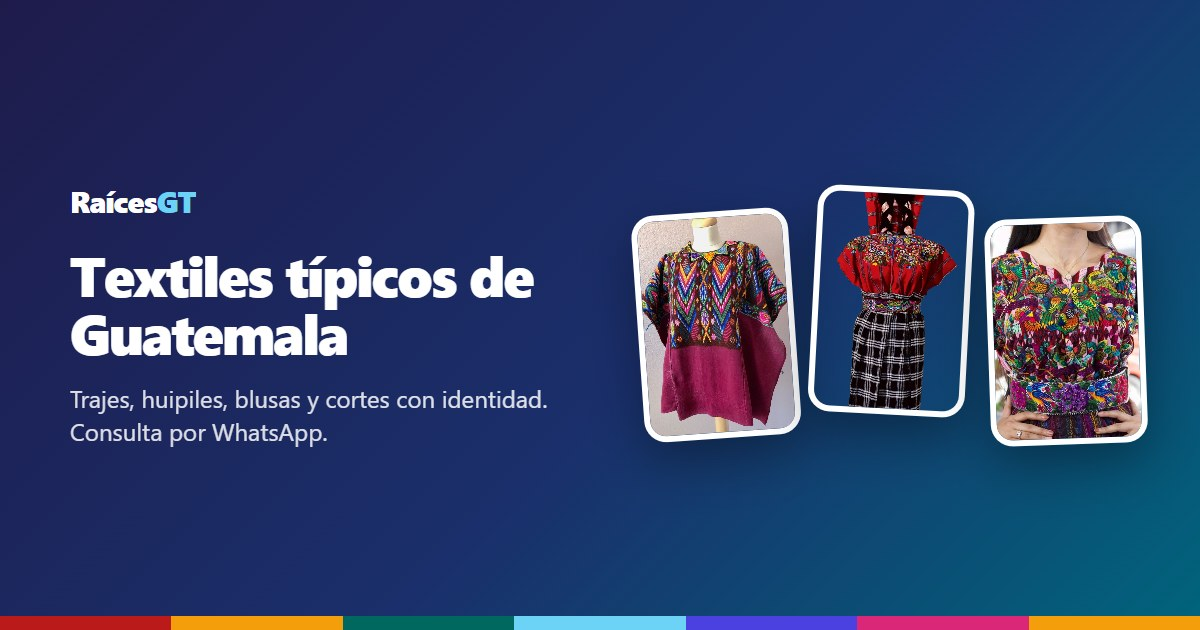
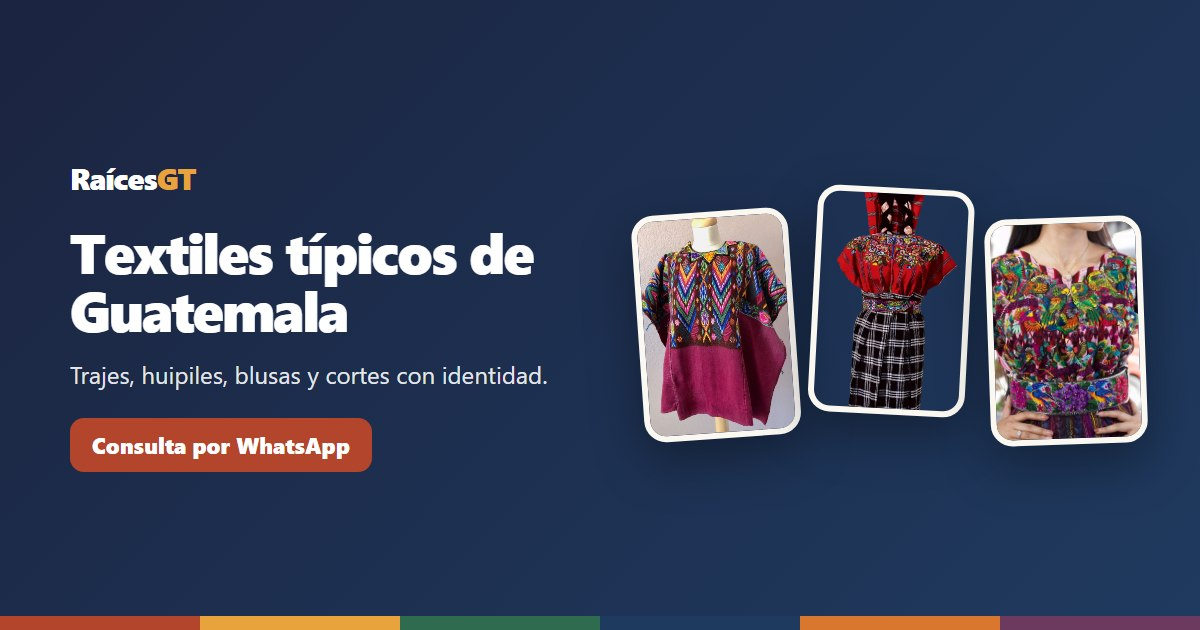
Nueva paleta de colores basada en psicología del color y tintes mayas
- Terracota cochinilla solo para acciones (botones), añil para
  confianza (cabecera y pie), maíz dorado para acentos, jade para
  categorías y fondo cálido de algodón crudo (regla 60-30-10)
- Botón principal del inicio sólido; degradados de cabecera en añil;
  sombras cálidas; franja textil con los seis tintes naturales
- Verde de WhatsApp más oscuro para que el texto blanco cumpla WCAG AA;
  todas las combinaciones de texto superan 4.5:1
- Favicon e imagen para compartir (Open Graph) con la paleta nueva
- README: sección "Colores y diseño" con el porqué de cada color

diff --git a/frontend/tailwind.config.js b/frontend/tailwind.config.js
@@ -5,59 +5,79 @@ module.exports = {
   theme: {
     extend: {
       colors: {
-        outline: "#6e797e",
-        "surface-container": "#eaedff",
-        "on-tertiary-fixed": "#00201d",
-        "on-primary-fixed-variant": "#004e61",
-        "on-error": "#ffffff",
-        "cool-slate": "#f8fafc",
-        "secondary-container": "#645efb",
-        "primary-fixed-dim": "#6cd3f7",
-        "outline-variant": "#bdc8ce",
-        "on-error-container": "#93000a",
-        "on-background": "#131b2e",
-        "surface-tint": "#006780",
-        "border-cool": "#e2e8f0",
-        "on-surface": "#131b2e",
-        "surface-dim": "#d2d9f4",
-        "on-tertiary": "#ffffff",
-        "on-primary-fixed": "#001f28",
-        "on-tertiary-container": "#f4fffc",
-        "secondary-fixed": "#e2dfff",
-        secondary: "#4b41e1",
-        "mesh-blue": "#e0f2fe",
-        "on-surface-variant": "#3e484d",
-        background: "#faf8ff",
-        tertiary: "#00685f",
-        error: "#ba1a1a",
-        "on-primary-container": "#fafdff",
-        "secondary-fixed-dim": "#c3c0ff",
-        "surface-container-low": "#f2f3ff",
-        "deep-indigo": "#1e1b4b",
-        "tertiary-container": "#008378",
-        "on-secondary-fixed": "#0f0069",
-        "primary-fixed": "#b7eaff",
-        "primary-container": "#007f9d",
-        surface: "#faf8ff",
-        "surface-container-lowest": "#ffffff",
-        "on-secondary-fixed-variant": "#3323cc",
-        "cobalt-blur": "rgba(79, 70, 229, 0.08)",
-        "error-container": "#ffdad6",
+        // ==================================================================
+        // PALETA "TINTES NATURALES" — psicología del color aplicada a ventas
+        // Regla 60-30-10: 60 % fondo cálido, 30 % añil (confianza),
+        // 10 % terracota (acciones). Ver README, sección "Colores".
+        // ==================================================================
+
+        // Terracota cochinilla: botones y acciones principales (atención, energía)
+        primary: "#B4452D",
+        "primary-container": "#923521", // hover de botones
         "on-primary": "#ffffff",
-        "surface-container-high": "#e2e7ff",
-        "tertiary-fixed": "#89f5e7",
-        "surface-bright": "#faf8ff",
-        "inverse-on-surface": "#eef0ff",
-        "inverse-primary": "#6cd3f7",
-        primary: "#00647c",
+        "on-primary-container": "#ffffff",
+        "primary-fixed": "#F6D9CF",
+        "primary-fixed-dim": "#E8A99A",
+        "on-primary-fixed": "#3B120A",
+        "on-primary-fixed-variant": "#7A2C1B",
+        "inverse-primary": "#E8A33D", // maíz dorado: acentos sobre fondos oscuros
+        "surface-tint": "#B4452D",
+
+        // Añil: confianza y seriedad (cabecera, pie, enlaces secundarios)
+        secondary: "#1F3A5F",
+        "secondary-container": "#2C4F7E",
         "on-secondary": "#ffffff",
-        "surface-container-highest": "#dae2fd",
-        "on-secondary-container": "#fffbff",
-        "on-tertiary-fixed-variant": "#005049",
-        "inverse-surface": "#283044",
-        "tertiary-fixed-dim": "#6bd8cb",
-        "surface-variant": "#dae2fd",
-        whatsapp: "#25d366",
+        "on-secondary-container": "#ffffff",
+        "secondary-fixed": "#DFE6F0",
+        "secondary-fixed-dim": "#B7C6DB",
+        "on-secondary-fixed": "#0D1B2E",
+        "on-secondary-fixed-variant": "#1F3A5F",
+        "deep-indigo": "#1B2440", // fondo de cabecera y pie
+
+        // Jade: autenticidad, hecho a mano, naturaleza (categorías)
+        tertiary: "#2F6B4F",
+        "tertiary-container": "#3D8463",
+        "on-tertiary": "#ffffff",
+        "on-tertiary-container": "#ffffff",
+        "tertiary-fixed": "#DCEFE3",
+        "tertiary-fixed-dim": "#A9D3BA",
+        "on-tertiary-fixed": "#0F2A1E",
+        "on-tertiary-fixed-variant": "#245540",
+
+        // Algodón crudo: fondos cálidos que resaltan las fotos (60 %)
+        background: "#FBF7F1",
+        surface: "#FBF7F1",
+        "surface-bright": "#FFFDF9",
+        "surface-container-lowest": "#ffffff",
+        "surface-container-low": "#F5EEE4",
+        "surface-container": "#EFE6D8",
+        "surface-container-high": "#E9DECD",
+        "surface-container-highest": "#E2D5C1",
+        "surface-dim": "#D9CBB5",
+        "surface-variant": "#EFE6D8",
+        "cool-slate": "#FAF5EE",
+        "mesh-blue": "#FBEBD8", // fondo de etiquetas (crema durazno)
+        "inverse-surface": "#2A211B",
+        "inverse-on-surface": "#F6EEE3",
+
+        // Texto en tonos café cálidos (más amables que el negro puro)
+        "on-background": "#2A211B",
+        "on-surface": "#2A211B",
+        "on-surface-variant": "#5C4F45",
+        outline: "#8A7B6E",
+        "outline-variant": "#D6C8B8",
+        "border-cool": "#E8DDCF",
+
+        // Errores: rojo carmín, distinto de la terracota de los botones
+        error: "#C62828",
+        "on-error": "#ffffff",
+        "error-container": "#FDE2E1",
+        "on-error-container": "#8C1D18",
+
+        // WhatsApp: verde reconocible, más oscuro para que el texto blanco se lea
+        whatsapp: "#17834A",
+
+        "cobalt-blur": "rgba(110, 60, 30, 0.08)",
       },
       borderRadius: {
         DEFAULT: "0.25rem",

diff --git a/frontend/public/js/catalogo.js b/frontend/public/js/catalogo.js
@@ -191,7 +191,7 @@
 
   function tarjetaGrid(producto) {
     return `
-      <article class="bg-white rounded-xl border border-border-cool shadow-[0_8px_30px_rgba(79,70,229,0.08)] hover:shadow-[0_12px_40px_rgba(79,70,229,0.14)] hover:-translate-y-1.5 transition-all duration-300 group overflow-hidden flex flex-col">
+      <article class="bg-white rounded-xl border border-border-cool shadow-[0_8px_30px_rgba(110,60,30,0.08)] hover:shadow-[0_12px_40px_rgba(110,60,30,0.14)] hover:-translate-y-1.5 transition-all duration-300 group overflow-hidden flex flex-col">
         <button type="button" data-id="${producto.id}" class="btn-detalle relative aspect-[4/5] overflow-hidden bg-surface-container-low" aria-label="Ver detalles de ${escaparHTML(producto.nombre)}">
           <img alt="${escaparHTML(producto.nombre)}" loading="lazy" class="w-full h-full object-cover group-hover:scale-105 transition-transform duration-700 ease-out" src="${escaparHTML(producto.imagen)}"/>
           <span class="absolute top-4 left-4 bg-white/90 backdrop-blur-sm text-primary text-sm font-medium px-3 py-1 rounded-full border border-primary/10">
@@ -213,7 +213,7 @@
 
   function tarjetaLista(producto) {
     return `
-      <article class="bg-white rounded-xl border border-border-cool shadow-[0_4px_20px_rgba(79,70,229,0.06)] hover:shadow-[0_10px_30px_rgba(79,70,229,0.12)] transition-all duration-300 group overflow-hidden flex flex-col sm:flex-row">
+      <article class="bg-white rounded-xl border border-border-cool shadow-[0_4px_20px_rgba(110,60,30,0.06)] hover:shadow-[0_10px_30px_rgba(110,60,30,0.12)] transition-all duration-300 group overflow-hidden flex flex-col sm:flex-row">
         <button type="button" data-id="${producto.id}" class="btn-detalle relative sm:w-56 md:w-64 shrink-0 aspect-[4/3] sm:aspect-auto overflow-hidden bg-surface-container-low" aria-label="Ver detalles de ${escaparHTML(producto.nombre)}">
           <img alt="${escaparHTML(producto.nombre)}" loading="lazy" class="w-full h-full object-cover group-hover:scale-105 transition-transform duration-700 ease-out" src="${escaparHTML(producto.imagen)}"/>
         </button>

diff --git a/frontend/public/index.html b/frontend/public/index.html
@@ -22,7 +22,7 @@
     <meta property="og:image:height" content="630" />
     <meta property="og:image:alt" content="RaícesGT: textiles típicos de Guatemala" />
     <meta name="twitter:card" content="summary_large_image" />
-    <meta name="theme-color" content="#1e1b4b" />
+    <meta name="theme-color" content="#1B2440" />
     <!-- /open-graph -->
     <link rel="icon" href="./img/favicon.svg" type="image/svg+xml" />
     <link href="https://fonts.googleapis.com" rel="preconnect" />
@@ -56,7 +56,7 @@
           >
             Viste la
             <span
-              class="bg-gradient-to-r from-primary via-primary-container to-inverse-primary bg-clip-text text-transparent"
+              class="bg-gradient-to-r from-primary-container via-primary to-[#C46A28] bg-clip-text text-transparent"
               >tradición
             </span>
             a tu manera.
@@ -70,7 +70,7 @@
           </p>
           <div class="flex flex-wrap gap-3">
             <a
-              class="cursor-pointer px-5 py-3.5 rounded-xl font-black text-[0.96rem] transition-transform duration-200 hover:-translate-y-0.5 bg-gradient-to-br from-primary to-secondary text-white shadow-[0_12px_28px_rgba(75,65,225,0.24)]"
+              class="cursor-pointer px-5 py-3.5 rounded-xl font-black text-[0.96rem] transition-transform duration-200 hover:-translate-y-0.5 bg-primary hover:bg-primary-container text-white shadow-[0_12px_28px_rgba(180,69,45,0.28)]"
               href="#nuevos"
               >Explorar nuevos ingresos</a
             >
@@ -82,7 +82,7 @@
           </div>
         </div>
         <div
-          class="bg-white p-3.5 rounded-[30px] shadow-[0_18px_45px_rgba(30,27,75,0.08)] transform rotate-[1.2deg] max-w-[400px] mx-auto w-full"
+          class="bg-white p-3.5 rounded-[30px] shadow-[0_18px_45px_rgba(60,35,20,0.08)] transform rotate-[1.2deg] max-w-[400px] mx-auto w-full"
         >
           <img
             alt="Traje típico de Patzún presentado en maniquí"

diff --git a/frontend/public/admin.html b/frontend/public/admin.html
@@ -13,7 +13,7 @@
   </head>
   <body class="bg-surface-container-low text-on-surface antialiased min-h-screen">
     <header class="sticky top-0 z-40 text-white shadow-lg">
-      <div class="bg-gradient-to-r from-deep-indigo via-[#1a2f6b] to-primary">
+      <div class="bg-gradient-to-r from-deep-indigo to-secondary">
         <div class="max-w-[1280px] w-[94%] mx-auto h-16 flex items-center justify-between gap-3">
           <div class="flex items-center gap-3 min-w-0">
             <a href="./index.html" class="font-black text-xl tracking-tight shrink-0">Raíces<span class="text-inverse-primary">GT</span></a>
@@ -33,7 +33,7 @@
     <main id="vista-login" class="hidden max-w-md w-[92%] mx-auto py-16">
       <form id="form-login" class="bg-white rounded-2xl border border-border-cool shadow-sm p-8 space-y-5">
         <div class="text-center">
-          <div class="mx-auto w-14 h-14 rounded-2xl bg-gradient-to-br from-deep-indigo to-primary text-white flex items-center justify-center text-2xl font-black mb-3">R</div>
+          <div class="mx-auto w-14 h-14 rounded-2xl bg-gradient-to-br from-deep-indigo to-secondary text-white flex items-center justify-center text-2xl font-black mb-3">R</div>
           <h1 class="text-2xl font-extrabold">Bienvenido</h1>
           <p class="text-sm text-on-surface-variant mt-1">Inicia sesión para administrar el catálogo y el inventario.</p>
         </div>
@@ -241,7 +241,7 @@
               </div>
               <div>
                 <p class="text-xs font-bold uppercase tracking-wide text-on-surface-variant mb-2">Así se verá</p>
-                <div id="vista-previa" class="bg-white rounded-xl border border-border-cool overflow-hidden shadow-[0_8px_30px_rgba(79,70,229,0.08)]"></div>
+                <div id="vista-previa" class="bg-white rounded-xl border border-border-cool overflow-hidden shadow-[0_8px_30px_rgba(110,60,30,0.08)]"></div>
               </div>
             </aside>
           </div>

diff --git a/frontend/public/nosotros.html b/frontend/public/nosotros.html
@@ -18,7 +18,7 @@
     <meta property="og:image:height" content="630" />
     <meta property="og:image:alt" content="RaícesGT: textiles típicos de Guatemala" />
     <meta name="twitter:card" content="summary_large_image" />
-    <meta name="theme-color" content="#1e1b4b" />
+    <meta name="theme-color" content="#1B2440" />
     <!-- /open-graph -->
     <link rel="icon" href="./img/favicon.svg" type="image/svg+xml" />
     <link href="https://fonts.googleapis.com" rel="preconnect" />
@@ -31,7 +31,7 @@
 
     <main class="flex-grow">
       <!-- Portada -->
-      <section class="relative overflow-hidden bg-gradient-to-br from-deep-indigo via-[#1a2f6b] to-primary text-white">
+      <section class="relative overflow-hidden bg-gradient-to-br from-deep-indigo to-secondary text-white">
         <div class="max-w-[1160px] w-[92%] mx-auto py-16 md:py-24 grid grid-cols-1 md:grid-cols-[1.1fr_0.9fr] gap-10 items-center">
           <div>
             <span class="inline-flex px-3.5 py-1.5 rounded-full bg-white/15 font-black text-[0.82rem] mb-4">SOBRE NOSOTROS</span>
@@ -99,7 +99,7 @@
               <p class="text-sm text-on-surface-variant">Elegimos cada traje por su calidad, sus detalles y su autenticidad.</p>
             </article>
             <article class="bg-white rounded-2xl border border-border-cool p-6">
-              <div class="w-12 h-12 rounded-xl bg-[#dcfce7] text-[#15803d] flex items-center justify-center mb-4">
+              <div class="w-12 h-12 rounded-xl bg-tertiary-fixed text-whatsapp flex items-center justify-center mb-4">
                 <svg class="w-6 h-6" fill="none" stroke="currentColor" stroke-width="2" stroke-linecap="round" stroke-linejoin="round" viewBox="0 0 24 24" aria-hidden="true"><path d="M21 12a8 8 0 0 1-11.6 7.1L4 20l1-4.6A8 8 0 1 1 21 12Z"/></svg>
               </div>
               <h3 class="font-bold text-lg mb-1.5">Atención cercana</h3>

diff --git a/frontend/public/js/detalle.js b/frontend/public/js/detalle.js
@@ -32,7 +32,7 @@
   document.getElementById("ruta-actual").textContent = producto.nombre;
 
   detalle.innerHTML = `
-    <div class="rounded-2xl overflow-hidden bg-surface-container-low border border-border-cool shadow-[0_18px_45px_rgba(30,27,75,0.08)]">
+    <div class="rounded-2xl overflow-hidden bg-surface-container-low border border-border-cool shadow-[0_18px_45px_rgba(60,35,20,0.08)]">
       <img src="${escaparHTML(producto.imagen)}" alt="${escaparHTML(producto.nombre)}" class="w-full aspect-[4/5] object-cover" />
     </div>
     <div class="md:sticky md:top-28">
@@ -100,7 +100,7 @@
     document.getElementById("relacionados").innerHTML = relacionados
       .map(
         (p) => `
-        <a href="./producto.html?id=${p.id}" class="group bg-white rounded-xl border border-border-cool overflow-hidden shadow-[0_8px_30px_rgba(79,70,229,0.08)] hover:-translate-y-1 transition-all duration-300 block">
+        <a href="./producto.html?id=${p.id}" class="group bg-white rounded-xl border border-border-cool overflow-hidden shadow-[0_8px_30px_rgba(110,60,30,0.08)] hover:-translate-y-1 transition-all duration-300 block">
           <div class="aspect-[4/5] overflow-hidden bg-surface-container-low">
             <img src="${escaparHTML(p.imagen)}" alt="${escaparHTML(p.nombre)}" loading="lazy" class="w-full h-full object-cover group-hover:scale-105 transition-transform duration-700" />
           </div>

diff --git a/frontend/public/productos.html b/frontend/public/productos.html
@@ -21,7 +21,7 @@
     <meta property="og:image:height" content="630" />
     <meta property="og:image:alt" content="RaícesGT: textiles típicos de Guatemala" />
     <meta name="twitter:card" content="summary_large_image" />
-    <meta name="theme-color" content="#1e1b4b" />
+    <meta name="theme-color" content="#1B2440" />
     <!-- /open-graph -->
     <link rel="icon" href="./img/favicon.svg" type="image/svg+xml" />
     <link href="https://fonts.googleapis.com" rel="preconnect" />
@@ -42,7 +42,7 @@
       >
         <div
           class="absolute inset-0 opacity-10 pointer-events-none"
-          style="background-image: radial-gradient(circle at 2px 2px, #00647c 1px, transparent 0); background-size: 32px 32px"
+          style="background-image: radial-gradient(circle at 2px 2px, #B4452D 1px, transparent 0); background-size: 32px 32px"
         ></div>
         <div class="max-w-3xl mx-auto text-center relative z-10">
           <span class="inline-flex px-3.5 py-1.5 rounded-full bg-mesh-blue text-primary font-black text-[0.82rem] mb-4">

diff --git a/frontend/public/js/inicio.js b/frontend/public/js/inicio.js
@@ -17,7 +17,7 @@
   contenedor.innerHTML = recientes
     .map(
       (p) => `
-      <article class="bg-white border border-border-cool rounded-[22px] overflow-hidden shadow-[0_10px_30px_rgba(30,27,75,0.04)] transition-all duration-300 hover:-translate-y-1.5 hover:shadow-[0_18px_45px_rgba(30,27,75,0.08)] flex flex-col group">
+      <article class="bg-white border border-border-cool rounded-[22px] overflow-hidden shadow-[0_10px_30px_rgba(60,35,20,0.04)] transition-all duration-300 hover:-translate-y-1.5 hover:shadow-[0_18px_45px_rgba(60,35,20,0.08)] flex flex-col group">
         <a href="./producto.html?id=${p.id}" class="block aspect-[4/5] overflow-hidden bg-gradient-to-br from-mesh-blue to-inverse-on-surface">
           <img alt="${escaparHTML(p.nombre)}" loading="lazy" class="w-full h-full object-cover group-hover:scale-105 transition-transform duration-700" src="${escaparHTML(p.imagen)}" />
         </a>

diff --git a/frontend/src/input.css b/frontend/src/input.css
@@ -10,18 +10,18 @@
 }
 
 @layer components {
-  /* Franja de colores inspirada en los tejidos, usada bajo la cabecera */
+  /* Franja de tintes naturales del tejido maya: cochinilla, maíz, jade, añil,
+     achiote y campeche. Va bajo la cabecera y sobre el pie de página. */
   .franja-textil {
     height: 4px;
     background: linear-gradient(
       90deg,
-      #ba1a1a 0%, #ba1a1a 14%,
-      #f59e0b 14%, #f59e0b 28%,
-      #00685f 28%, #00685f 42%,
-      #6cd3f7 42%, #6cd3f7 56%,
-      #4b41e1 56%, #4b41e1 70%,
-      #db2777 70%, #db2777 84%,
-      #f59e0b 84%, #f59e0b 100%
+      #b4452d 0%, #b4452d 16%,
+      #e8a33d 16%, #e8a33d 32%,
+      #2f6b4f 32%, #2f6b4f 48%,
+      #1f3a5f 48%, #1f3a5f 64%,
+      #d9772f 64%, #d9772f 80%,
+      #6b3a5e 80%, #6b3a5e 100%
     );
   }
 

diff --git a/frontend/public/js/layout.js b/frontend/public/js/layout.js
@@ -46,7 +46,7 @@
   if (encabezado) {
     encabezado.className = "sticky top-0 z-50 text-white shadow-lg";
     encabezado.innerHTML = `
-      <div class="bg-gradient-to-r from-deep-indigo via-[#1a2f6b] to-primary">
+      <div class="bg-gradient-to-r from-deep-indigo to-secondary">
         <div class="max-w-[1160px] w-[92%] mx-auto h-[68px] flex items-center justify-between gap-6">
           <a href="./index.html" class="font-black text-xl tracking-tight">
             Raíces<span class="text-inverse-primary">GT</span>

diff --git a/frontend/public/contacto.html b/frontend/public/contacto.html
@@ -18,7 +18,7 @@
     <meta property="og:image:height" content="630" />
     <meta property="og:image:alt" content="RaícesGT: textiles típicos de Guatemala" />
     <meta name="twitter:card" content="summary_large_image" />
-    <meta name="theme-color" content="#1e1b4b" />
+    <meta name="theme-color" content="#1B2440" />
     <!-- /open-graph -->
     <link rel="icon" href="./img/favicon.svg" type="image/svg+xml" />
     <link href="https://fonts.googleapis.com" rel="preconnect" />

diff --git a/frontend/public/privacidad.html b/frontend/public/privacidad.html
@@ -18,7 +18,7 @@
     <meta property="og:image:height" content="630" />
     <meta property="og:image:alt" content="RaícesGT: textiles típicos de Guatemala" />
     <meta name="twitter:card" content="summary_large_image" />
-    <meta name="theme-color" content="#1e1b4b" />
+    <meta name="theme-color" content="#1B2440" />
     <!-- /open-graph -->
     <link rel="icon" href="./img/favicon.svg" type="image/svg+xml" />
     <link href="https://fonts.googleapis.com" rel="preconnect" />
